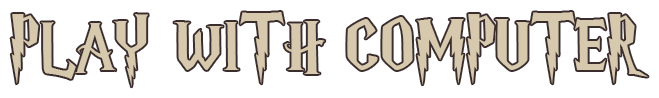
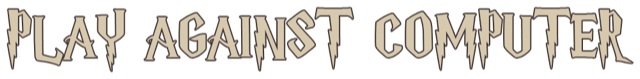
added buttons

diff --git a/Wizard Chess/platforms/browser/www/index.html b/Wizard Chess/platforms/browser/www/index.html
@@ -36,15 +36,19 @@
 <body>
 <div class="bg">
 <div class="container text-center">
-<h1><img src="src/img/img_title.png" alt="Wizard Chess" style="width: 400px"></h1>
-
-<p><a class="button" href="single.html">Play against computer</a></p>
-<p><a class="button" href="multiple.html">Play against your friend</a></p>
+<h1><img src="src/img/img_title.png" alt="Wizard Chess" style="width: 90%; max-width: 400px;"></h1>
+<br><br>
+    <p><a href="single.html"><img class="option" src="src/img/img_button_playWithCom_659x98.png" alt="Play with computer"></a></p>
+    <br>
+    <p><a href="multiple.html"><img class="option" src="src/img/img_button_playWithFri_533x98.png" alt="Play with your friend"></a></p>
+    <br>
+    <p><a href="#"><img class="option" src="src/img/img_button_readRule_449x114.png" alt="Read rules"></a></p>
+</div>
 </div>
 <div class="navbar-fixed-bottom text-center"><p><audio autoplay>
     <source src="src/audio/bgm.mp3" type="audio/mpeg">
     Your browser does not support the audio element.
-</audio></p><p>Copyright &copy; Ruojun Hong,Dailing Zhu, New York University, 2017</p></div>
+</audio></p><p class="footer">Copyright &copy; Ruojun Hong,Dailing Zhu, New York University, 2017</p></div>
 </div>
 </body>
 </html>

diff --git a/Wizard Chess/www/index.html b/Wizard Chess/www/index.html
@@ -36,15 +36,19 @@
 <body>
 <div class="bg">
 <div class="container text-center">
-<h1><img src="src/img/img_title.png" alt="Wizard Chess" style="width: 400px"></h1>
-
-<p><a class="button" href="single.html">Play against computer</a></p>
-<p><a class="button" href="multiple.html">Play against your friend</a></p>
+<h1><img src="src/img/img_title.png" alt="Wizard Chess" style="width: 90%; max-width: 400px;"></h1>
+<br><br>
+    <p><a href="single.html"><img class="option" src="src/img/img_button_playWithCom_659x98.png" alt="Play with computer"></a></p>
+    <br>
+    <p><a href="multiple.html"><img class="option" src="src/img/img_button_playWithFri_533x98.png" alt="Play with your friend"></a></p>
+    <br>
+    <p><a href="#"><img class="option" src="src/img/img_button_readRule_449x114.png" alt="Read rules"></a></p>
+</div>
 </div>
 <div class="navbar-fixed-bottom text-center"><p><audio autoplay>
     <source src="src/audio/bgm.mp3" type="audio/mpeg">
     Your browser does not support the audio element.
-</audio></p><p>Copyright &copy; Ruojun Hong,Dailing Zhu, New York University, 2017</p></div>
+</audio></p><p class="footer">Copyright &copy; Ruojun Hong,Dailing Zhu, New York University, 2017</p></div>
 </div>
 </body>
 </html>

diff --git a/Wizard Chess/platforms/browser/www/single.html b/Wizard Chess/platforms/browser/www/single.html
@@ -38,9 +38,9 @@
 <div class="bg">
 <div class="container text-center">
 <h1>
-    <img src="src/img/img_title.png" alt="Wizard Chess" style="width: 400px">
+    <img src="src/img/img_title.png" alt="Wizard Chess" style="width: 90%; max-width: 400px;">
 </h1>
-<div id="board" class="container text-center" style="width: 400px"></div>
+<div id="board" class="container text-center" style="width: 90%; max-width: 400px;"></div>
 <p><span id="status"></span></p>
 <script src="src/js/json3.min.js"></script>
 <script src="src/js/jquery-1.10.1.min.js"></script>
@@ -182,7 +182,7 @@
 <div class="navbar-fixed-bottom text-center"><p><audio autoplay>
     <source src="src/audio/bgm.mp3" type="audio/mpeg">
     Your browser does not support the audio element.
-</audio></p><p>Copyright &copy; Ruojun Hong,Dailing Zhu, New York University, 2017</p></div>
+</audio></p><p class="footer">Copyright &copy; Ruojun Hong,Dailing Zhu, New York University, 2017</p></div>
 </div>
 </body>
 </html>

diff --git a/Wizard Chess/www/single.html b/Wizard Chess/www/single.html
@@ -38,9 +38,9 @@
 <div class="bg">
 <div class="container text-center">
 <h1>
-    <img src="src/img/img_title.png" alt="Wizard Chess" style="width: 400px">
+    <img src="src/img/img_title.png" alt="Wizard Chess" style="width: 90%; max-width: 400px;">
 </h1>
-<div id="board" class="container text-center" style="width: 400px"></div>
+<div id="board" class="container text-center" style="width: 90%; max-width: 400px;"></div>
 <p><span id="status"></span></p>
 <script src="src/js/json3.min.js"></script>
 <script src="src/js/jquery-1.10.1.min.js"></script>
@@ -182,7 +182,7 @@
 <div class="navbar-fixed-bottom text-center"><p><audio autoplay>
     <source src="src/audio/bgm.mp3" type="audio/mpeg">
     Your browser does not support the audio element.
-</audio></p><p>Copyright &copy; Ruojun Hong,Dailing Zhu, New York University, 2017</p></div>
+</audio></p><p class="footer">Copyright &copy; Ruojun Hong,Dailing Zhu, New York University, 2017</p></div>
 </div>
 </body>
 </html>

diff --git a/Wizard Chess/platforms/browser/www/multiple.html b/Wizard Chess/platforms/browser/www/multiple.html
@@ -36,8 +36,8 @@
 <body>
 <div class="bg">
 <div class="container text-center">
-<h1><img src="src/img/img_title.png" alt="Wizard Chess" style="width: 400px"></h1>
-<div id="board" class="container text-center" style="width: 400px"></div>
+<h1><img src="src/img/img_title.png" alt="Wizard Chess" style="width: 90%; max-width: 400px;"></h1>
+<div id="board" class="container text-center" style="width: 90%; max-width: 400px;"></div>
 <p><span id="status"></span></p>
 
 <script src="src/js/json3.min.js"></script>
@@ -166,7 +166,7 @@
 <div class="navbar-fixed-bottom text-center"><p><audio autoplay>
     <source src="src/audio/bgm.mp3" type="audio/mpeg">
     Your browser does not support the audio element.
-</audio></p><p>Copyright &copy; Ruojun Hong,Dailing Zhu, New York University, 2017</p></div>
+</audio></p><p class="footer">Copyright &copy; Ruojun Hong,Dailing Zhu, New York University, 2017</p></div>
 </div>
 </body>
 </html>

diff --git a/Wizard Chess/www/multiple.html b/Wizard Chess/www/multiple.html
@@ -36,8 +36,8 @@
 <body>
 <div class="bg">
 <div class="container text-center">
-<h1><img src="src/img/img_title.png" alt="Wizard Chess" style="width: 400px"></h1>
-<div id="board" class="container text-center" style="width: 400px"></div>
+<h1><img src="src/img/img_title.png" alt="Wizard Chess" style="width: 90%; max-width: 400px;"></h1>
+<div id="board" class="container text-center" style="width: 90%; max-width: 400px;"></div>
 <p><span id="status"></span></p>
 
 <script src="src/js/json3.min.js"></script>
@@ -166,7 +166,7 @@
 <div class="navbar-fixed-bottom text-center"><p><audio autoplay>
     <source src="src/audio/bgm.mp3" type="audio/mpeg">
     Your browser does not support the audio element.
-</audio></p><p>Copyright &copy; Ruojun Hong,Dailing Zhu, New York University, 2017</p></div>
+</audio></p><p class="footer">Copyright &copy; Ruojun Hong,Dailing Zhu, New York University, 2017</p></div>
 </div>
 </body>
 </html>

diff --git a/multiple.html b/multiple.html
@@ -162,7 +162,7 @@
     updateStatus();
 </script>
 </div>
-<div class="container text-center"><a class="button" href="index.html">Back to main menu</a></p></div>
+<div class="container text-center"><p><a href="index.html"><img class="option" src="src/img/img_button_backToMain_659x98.png" alt="Back to main menu"></a></p></div>
 <div class="navbar-fixed-bottom text-center"><p><audio autoplay>
     <source src="src/audio/bgm.mp3" type="audio/mpeg">
     Your browser does not support the audio element.

diff --git a/single.html b/single.html
@@ -178,7 +178,7 @@
     updateStatus();
 </script>
 </div>
-<div class="container text-center"><a class="button" href="index.html">Back to main menu</a></p></div>
+<div class="container text-center"><p><a href="index.html"><img class="option" src="src/img/img_button_backToMain_659x98.png" alt="Back to main menu"></a></p></div>
 <div class="navbar-fixed-bottom text-center"><p><audio autoplay>
     <source src="src/audio/bgm.mp3" type="audio/mpeg">
     Your browser does not support the audio element.

diff --git a/Wizard Chess/platforms/browser/www/src/css/chessboard-0.3.0.css b/Wizard Chess/platforms/browser/www/src/css/chessboard-0.3.0.css
@@ -71,3 +71,14 @@
   left: 2px;
 }
 
+.option{
+  width: 70%; max-width: 300px;
+}
+.option:hover{
+  width: 80%;
+  max-width: 350px;
+}
+
+.footer{
+  color: silver;
+}

diff --git a/Wizard Chess/www/src/css/chessboard-0.3.0.css b/Wizard Chess/www/src/css/chessboard-0.3.0.css
@@ -71,3 +71,14 @@
   left: 2px;
 }
 
+.option{
+  width: 70%; max-width: 300px;
+}
+.option:hover{
+  width: 80%;
+  max-width: 350px;
+}
+
+.footer{
+  color: silver;
+}

diff --git a/src/css/chessboard-0.3.0.css b/src/css/chessboard-0.3.0.css
@@ -79,6 +79,6 @@
   max-width: 350px;
 }
 
-.footer{
+p{
   color: silver;
 }
